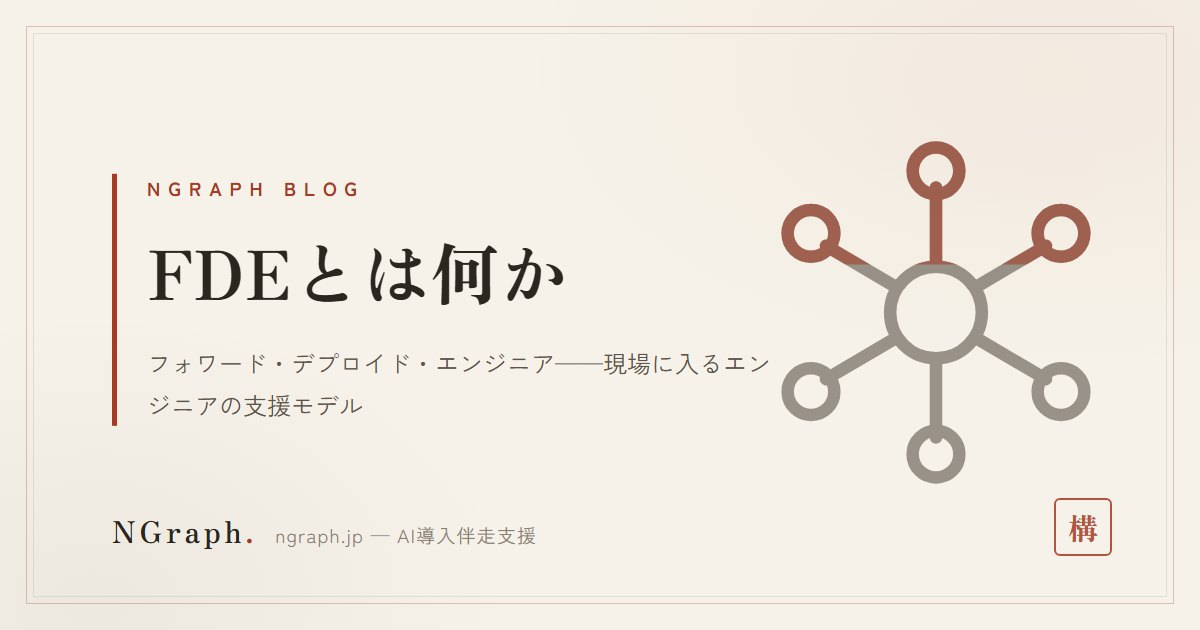
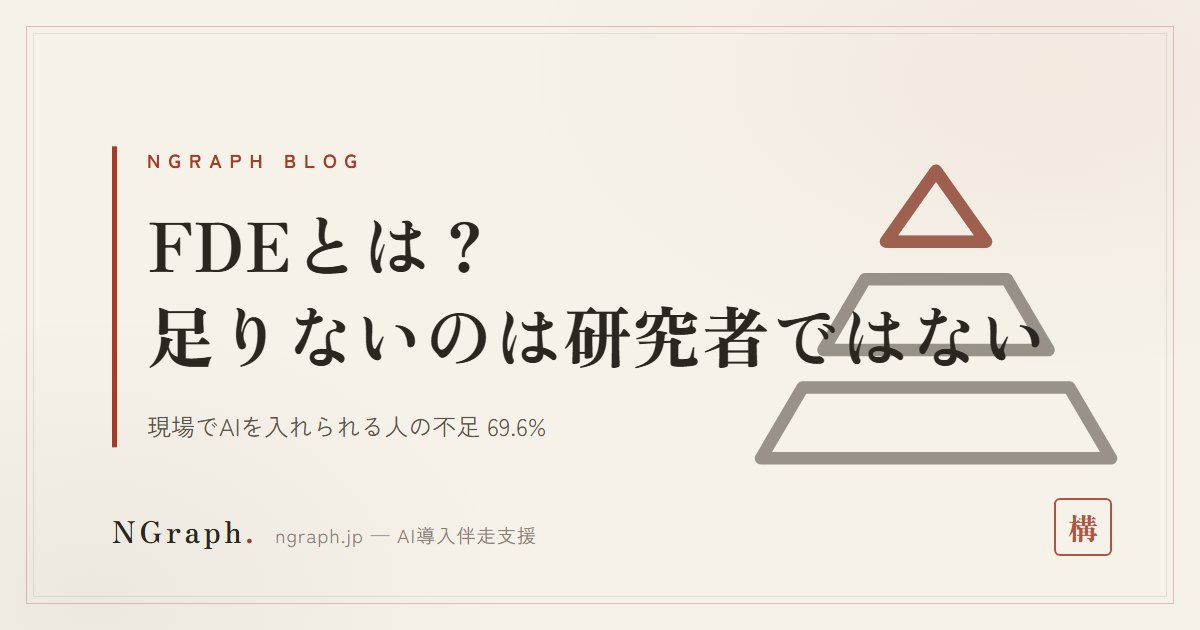
blog: what-is-fde を夕B型に増強改稿(1,800字→7,900字) + 101人以下→100人以下の全箇所修正
- what-is-fde.html: IPA「DX動向2026」+帝国データバンクの一次データで全面増強。
  H2を8本に拡張(FDE定義/人材不足の正体/3年推移/規模別導入率/調査間のズレ/
  現場での実務/NGパターン/FAQ+まとめ)。図解4点(fig_gen.py)・表4点・FAQ6問・
  一次体験ブロックを追加。datePublished維持、dateModifiedのみ2026-08-06へ。
  アイキャッチをeyecatch_gen.pyで再生成。
- 20260805-sakana-namazu.html: IPAの区分表記「101人以下」を正しい「100人以下」
  (n=583)に全7箇所修正。dateModified更新。
- blog/index.html: 上記2記事のカード見出し・説明文を更新。
- sitemap.xml: 両記事のlastmodを2026-08-06に更新。
- llms.txt: what-is-fdeの行を新タイトルに更新。

Changed region(s): [[0.0925, 0.2111, 0.925, 0.7841], [0.1233, 0.6333, 0.4625, 0.6937]]

diff --git a/blog/what-is-fde.html b/blog/what-is-fde.html
@@ -10,10 +10,10 @@
   gtag('js', new Date());
   gtag('config', 'G-L96HMXRK1D');
 </script>
-<title>FDE（フォワード・デプロイド・エンジニア）とは？ 米テック大手が「常駐エンジニア」に投資する理由 | NGraphブログ</title>
-<meta name="description" content="OpenAIのFrontier、Microsoft・AWSのFDE部門新設——AI導入支援の主流が「現場常駐型」に移りつつある背景と、FDEの仕事内容をわかりやすく解説します。">
-<meta property="og:title" content="FDE（フォワード・デプロイド・エンジニア）とは？ 米テック大手が「常駐エンジニア」に投資する理由 | NGraphブログ">
-<meta property="og:description" content="OpenAIのFrontier、Microsoft・AWSのFDE部門新設——AI導入支援の主流が「現場常駐型」に移りつつある背景と、FDEの仕事内容をわかりやすく解説します。">
+<title>FDE（フォワード・デプロイド・エンジニア）とは？ 企業が本当に足りないのは「現場でAIを入れられる人」——不足69.6% | NGraphブログ</title>
+<meta name="description" content="FDE＝エンジニアが顧客企業の現場に入ってAIを業務に組み込む支援モデル。IPA「DX動向2026」では「現場の知見と基礎的AI知識を持ち、自社へのAI導入を推進できる従業員」が不足69.6%、一方でAI研究者は56.7%が「自社には必要ない」。足りない人材の正体と、中小企業がFDE型支援を使う手順を解説します。">
+<meta property="og:title" content="FDE（フォワード・デプロイド・エンジニア）とは？ 企業が本当に足りないのは「現場でAIを入れられる人」——不足69.6% | NGraphブログ">
+<meta property="og:description" content="FDE＝エンジニアが顧客企業の現場に入ってAIを業務に組み込む支援モデル。IPA「DX動向2026」では「現場の知見と基礎的AI知識を持ち、自社へのAI導入を推進できる従業員」が不足69.6%、一方でAI研究者は56.7%が「自社には必要ない」。足りない人材の正体と、中小企業がFDE型支援を使う手順を解説します。">
 <meta property="og:type" content="article">
 <meta property="og:url" content="https://ngraph.jp/blog/what-is-fde.html">
 <meta property="og:site_name" content="株式会社NGraph">
@@ -21,22 +21,23 @@
 <meta property="og:image" content="https://ngraph.jp/assets/blog/what-is-fde.jpg">
 <meta property="og:image:width" content="1200">
 <meta property="og:image:height" content="630">
+<meta name="twitter:card" content="summary_large_image">
 <link rel="canonical" href="https://ngraph.jp/blog/what-is-fde.html">
 <link rel="icon" href="/assets/favicon.svg" type="image/svg+xml">
 <link rel="preconnect" href="https://fonts.googleapis.com">
 <link rel="preconnect" href="https://fonts.gstatic.com" crossorigin>
 <link href="https://fonts.googleapis.com/css2?family=Zen+Old+Mincho:wght@400;600;700;900&family=Zen+Kaku+Gothic+New:wght@400;500;700&family=Noto+Sans+JP:wght@400;500;700&display=swap" rel="stylesheet">
 <link rel="stylesheet" href="/css/ngraph-zen.css?v=5">
-<style>.a-faq details{border:1px solid var(--border);border-radius:3px;background:var(--bg-card);margin-bottom:10px;padding:0 18px}.a-faq summary{font-family:var(--serif);font-size:.92rem;font-weight:700;line-height:1.7;padding:14px 0;cursor:pointer;list-style:none;position:relative;padding-right:26px}.a-faq summary::after{content:"\uFF0B";position:absolute;right:2px;top:50%;transform:translateY(-50%);color:var(--accent)}.a-faq details[open] summary::after{content:"\u2212"}.a-faq details p{font-size:.86rem;color:var(--text-2);line-height:2;padding:0 0 16px}.a-note{background:rgba(166,58,36,.05);border-left:2.5px solid var(--accent);padding:16px 20px;border-radius:0 3px 3px 0;font-size:.88rem;color:var(--text-2);line-height:2.1;margin:26px 0}.a-note strong{color:var(--text)}.a-table-wrap{overflow-x:auto;margin:18px 0}.a-table{width:100%;border-collapse:collapse;font-size:.84rem}.a-table th,.a-table td{border:1px solid var(--border);padding:9px 12px;text-align:left;line-height:1.8;color:var(--text-2)}.a-table th{background:rgba(166,58,36,.05);color:var(--text);font-weight:700;white-space:nowrap}.a-eyecatch{width:100%;height:auto;display:block;border:1px solid var(--border);border-radius:4px;margin:24px 0 8px}</style>
+<style>.a-faq details{border:1px solid var(--border);border-radius:3px;background:var(--bg-card);margin-bottom:10px;padding:0 18px}.a-faq summary{font-family:var(--serif);font-size:.92rem;font-weight:700;line-height:1.7;padding:14px 0;cursor:pointer;list-style:none;position:relative;padding-right:26px}.a-faq summary::after{content:"＋";position:absolute;right:2px;top:50%;transform:translateY(-50%);color:var(--accent)}.a-faq details[open] summary::after{content:"−"}.a-faq details p{font-size:.86rem;color:var(--text-2);line-height:2;padding:0 0 16px}.a-note{background:rgba(166,58,36,.05);border-left:2.5px solid var(--accent);padding:16px 20px;border-radius:0 3px 3px 0;font-size:.88rem;color:var(--text-2);line-height:2.1;margin:26px 0}.a-note strong{color:var(--text)}.a-table-wrap{overflow-x:auto;margin:18px 0}.a-table{width:100%;border-collapse:collapse;font-size:.84rem}.a-table th,.a-table td{border:1px solid var(--border);padding:9px 12px;text-align:left;line-height:1.8;color:var(--text-2)}.a-table th{background:rgba(166,58,36,.05);color:var(--text);font-weight:700;white-space:nowrap}.a-eyecatch{width:100%;height:auto;display:block;border:1px solid var(--border);border-radius:4px;margin:24px 0 8px}.a-fig-wrap{background:var(--bg-card);border:1px solid var(--border);border-radius:4px;padding:22px 18px 14px;margin:26px 0;overflow-x:auto}.a-fig-title{font-family:var(--serif);font-size:.95rem;font-weight:700;text-align:center;margin-bottom:10px;color:var(--text)}.a-fig-cap{font-size:.8rem;color:var(--text-3);line-height:1.95;margin-top:10px}.a-src{border-top:1px solid var(--border);margin-top:34px;padding-top:16px;font-size:.78rem;color:var(--text-3);line-height:2}.a-src a{color:var(--text-3);text-decoration:underline}.a-toc{background:var(--bg-card);border:1px solid var(--border);border-radius:3px;padding:16px 20px;margin:20px 0;font-size:.86rem;color:var(--text-2);line-height:2}.a-toc strong{color:var(--text)}</style>
 <script type="application/ld+json">
 {
   "@context": "https://schema.org",
   "@type": "Article",
-  "headline": "FDE（フォワード・デプロイド・エンジニア）とは？ 米テック大手が「常駐エンジニア」に投資する理由",
+  "headline": "FDE（フォワード・デプロイド・エンジニア）とは？ 企業が本当に足りないのは「現場でAIを入れられる人」——不足69.6%",
   "image": "https://ngraph.jp/assets/blog/what-is-fde.jpg",
-  "description": "OpenAIのFrontier、Microsoft・AWSのFDE部門新設——AI導入支援の主流が「現場常駐型」に移りつつある背景と、FDEの仕事内容をわかりやすく解説します。",
+  "description": "FDE＝エンジニアが顧客企業の現場に入ってAIを業務に組み込む支援モデル。IPA「DX動向2026」では「現場の知見と基礎的AI知識を持ち、自社へのAI導入を推進できる従業員」が不足69.6%、一方でAI研究者は56.7%が「自社には必要ない」。足りない人材の正体と、中小企業がFDE型支援を使う手順を解説します。",
   "datePublished": "2026-07-14",
-  "dateModified": "2026-07-17",
+  "dateModified": "2026-08-06",
   "inLanguage": "ja",
   "mainEntityOfPage": "https://ngraph.jp/blog/what-is-fde.html",
   "author": { "@type": "Person", "name": "髙橋 真吾", "jobTitle": "代表取締役", "url": "https://ngraph.jp/company#team", "worksFor": { "@type": "Organization", "name": "株式会社NGraph", "url": "https://ngraph.jp/" } },
@@ -50,10 +51,10 @@
  "mainEntity": [
   {
    "@type": "Question",
-   "name": "FDEと、ふつうのシステム開発会社は何が違いますか？",
+   "name": "FDE（フォワード・デプロイド・エンジニア）とは何ですか？",
    "acceptedAnswer": {
     "@type": "Answer",
-    "text": "要件定義書を受け取って作るのではなく、エンジニアが現場に入って業務ごと設計する点です。ゴールも「完成品の納品」ではなく「現場が自分で使いこなせる状態」に置きます。"
+    "text": "エンジニアが顧客企業の現場に入り込み、その場で業務にAIを組み込んでいく支援モデルです。要件定義書を受け取って完成品を納品するのではなく、現場が自分で使いこなせる状態になるまでを範囲とします。"
    }
   },
   {
@@ -61,7 +62,23 @@
    "name": "FDEという言葉はどこから来たのですか？",
    "acceptedAnswer": {
     "@type": "Answer",
-    "text": "米Palantir社が広めた職種名で、Forward Deployed Engineer（前線配置エンジニア）の略です。顧客企業の中に入って働くエンジニアを指し、現在はOpenAIなど米テック各社が同型の支援を強化しています。"
+    "text": "米Palantir社が広めた職種名です。OpenAIも2026年7月に発表した企業向けAIエージェント基盤「OpenAI Presence」の導入を担う役割としてFDEを位置づけており、大手にも広がっています。"
+   }
+  },
+  {
+   "@type": "Question",
+   "name": "企業が本当に足りていないのはどんな人材ですか？",
+   "acceptedAnswer": {
+    "@type": "Answer",
+    "text": "IPA「DX動向2026」（2025年度調査）では、「現場の知見と基礎的AI知識を持ち、自社へのAI導入を推進できる従業員」の不足が69.6%、「データマネジメントの知見があり社内で企画・推進できる人材」の不足が71.9%と高い一方、AI研究者の不足は39.1%にとどまります。研究者は「自社には必要ない」が56.7%と高いためで、中小企業に必要なのは論文を書ける人ではなく現場に入れる人だと分かります。"
+   }
+  },
+  {
+   "@type": "Question",
+   "name": "中小企業のAI導入率はどれくらいですか？",
+   "acceptedAnswer": {
+    "@type": "Answer",
+    "text": "IPAの調査では従業員100人以下の企業の「導入している」は16.6%、1,001人以上の企業は78.3%です。一方、帝国データバンクの調査では中小企業の「活用している」は32.4%と報告されています。母集団・設問・調査時期が異なるため、この2つの数字を引き算して比較することはできません。"
    }
   },
   {
@@ -69,7 +86,15 @@
    "name": "中小企業でもFDE型の支援を頼めますか？",
    "acceptedAnswer": {
     "@type": "Answer",
-    "text": "はい。むしろIT担当がいない中小企業にこそ効果が大きい形です。当社は中小企業の規模と予算に合わせて、オンライン中心・範囲を絞った形から提供しています。"
+    "text": "はい。むしろIT担当がいない中小企業にこそ効果が大きい形です。当社は福井の飲食グループ本部（12店舗）など、中小企業の規模と予算に合わせてFDE型の支援を提供しています。"
+   }
+  },
+  {
+   "@type": "Question",
+   "name": "FDE型と研修型・コンサル型・受託開発型は何が違いますか？",
+   "acceptedAnswer": {
+    "@type": "Answer",
+    "text": "研修型は知識を広げること、コンサル型は方針を決めること、受託開発型は要件通りのシステムを完成させることがゴールです。FDE型だけが、エンジニアが現場に入って一緒に手を動かし、「現場が自分で使いこなせる状態」まで責任範囲に含めます。"
    }
   }
  ]
@@ -91,43 +116,124 @@
 </header>
 
 <article class="article-wrap">
-  <div class="a-label">Blog</div>
-  <h1>FDE（フォワード・デプロイド・エンジニア）とは？ 米テック大手が「常駐エンジニア」に投資する理由</h1>
-  <span class="a-date">2026.07.14 ｜ 株式会社NGraph</span>
+  <div class="a-label">Evening Deep Dive</div>
+  <h1>FDE（フォワード・デプロイド・エンジニア）とは？ 企業が本当に足りないのは「現場でAIを入れられる人」——不足69.6%</h1>
+  <span class="a-date">2026.07.14 公開（2026.08.06 更新）｜ 株式会社NGraph</span>
   <img class="a-eyecatch" src="/assets/blog/what-is-fde.jpg" alt="">
 
-<p>FDE（Forward Deployed Engineer＝フォワード・デプロイド・エンジニア）は、直訳すると「最前線に配置された技術者」。<strong>エンジニアが顧客企業の中に数ヶ月単位で入り込み、各現場の業務に合わせてその場でAIを組み込んでいく</strong>支援モデルです。</p>
-<h2>なぜ今、FDEなのか</h2>
-<p>AIツールの性能はすでに十分高くなりました。ところが多くの企業では「契約したのに現場が使いこなせない」という停滞が起きています。原因はツールではなく、ツールと現場のあいだ——「自社のこの業務にどう当てはめるか」という最後の一段が埋まっていないことにあります。</p>
-<p>この一段は、マニュアルや研修では埋まりません。現場ごとに業務が違い、必要なプロンプトもシステム連携も違うからです。埋められるのは、現場に入って手を動かす人だけ。それがFDEという職種が生まれた理由です。</p>
-<h2>米テック大手の動き</h2>
-<ul>
-<li><strong>OpenAI「Frontier」</strong>：自社エンジニアを顧客企業に常駐させ、「AI同僚（AI coworkers）」と呼ばれる自律型エージェントを企業システムへ直接組み込む支援を展開しています。</li>
-<li><strong>Microsoft / AWS</strong>：両社とも巨額の投資を行い、数千人規模のFDE新部門を設立して顧客企業への常駐支援を開始したと報じられています。</li>
-</ul>
-<p>「ツールを渡して終わり」から「現場で動くまでつくる」へ。世界のAI導入支援は、確実に現場常駐型へ移っています。</p>
-<h2>FDEは何をするのか</h2>
-<p>FDEの仕事は大きく4つです。</p>
+<p>FDE（Forward Deployed Engineer＝フォワード・デプロイド・エンジニア）は、直訳すると「前線配置エンジニア」。<strong>エンジニアが顧客企業の現場に入り込み、その場でAIを業務に組み込んでいく</strong>支援モデルです。IPA（情報処理推進機構）「DX動向2026」データ集（2026年7月公表・2025年度調査・有効回答1,799社）によると、企業に本当に足りていないのは「AIに詳しい研究者」ではなく、<strong>「現場の知見と基礎的AI知識を持ち、自社へのAI導入を推進できる従業員」——不足69.6%</strong>でした。この記事ではFDEの定義と、IPA・帝国データバンクの調査データから見える「足りない人材」の正体、中小企業がFDE型支援を使う際の考え方を解説します。</p>
+<div class="a-toc"><strong>この記事でわかること</strong><br>
+・FDEとは何か。Palantir発の職種名がOpenAIの新サービスにも広がっている背景<br>
+・IPAの人材充足調査で「不足している」が最も高いのは、AI研究者ではなく現場推進人材・データマネジメント人材だという事実<br>
+・同じ「中小企業のAI導入率」でも、IPA（16.6%）と帝国データバンク（32.4%）で数字が倍近く違う理由</div>
+
+<h2>FDE（フォワード・デプロイド・エンジニア）とは何か</h2>
+<p>FDE（Forward Deployed Engineer）という職種名は、米Palantir社が広めたものです（公式の一次情報が確認できないため、創業年や人数などの詳細はここでは扱いません）。要件定義書を受け取って完成品を納品するのではなく、<strong>エンジニアが顧客企業の中に入り込み、現場の業務ごとにAIの使い方をその場で設計していく</strong>のが特徴です。</p>
+<p>この型はAIの提供側にも広がっています。OpenAIは2026年7月22日、企業向けの音声・チャットAIエージェントを構築・展開・運用・継続改善するためのマネージド基盤「OpenAI Presence」を発表しました。同社によると、<strong>その導入を担うのがForward Deployed Engineer（FDE）</strong>です。「AIツールを配って終わり」ではなく「現場で動くところまで一緒に作る」役割に、AIを作る側自身が名前をつけ始めているということです。</p>
+<p>FDE型は唯一の支援方法ではありません。よく比較される4つの型の違いを表1に整理しました。</p>
+<div class="a-table-wrap"><table class="a-table">
+<tr><th>型</th><th>誰が手を動かすか</th><th>成果物</th><th>終わり方</th><th>向く場面</th></tr>
+<tr><td>FDE型</td><td>エンジニアが現場で担当者と一緒に</td><td>現場で動くAIの仕組み・運用手順</td><td>現場が自分で回せる状態になったら完了</td><td>業務ごとにやり方が違う・変化が多い現場</td></tr>
+<tr><td>研修型</td><td>社員が講義・演習で学ぶ</td><td>知識・スキル</td><td>研修の実施で一区切り（現場適用は各自）</td><td>全社員に共通の基礎知識を広げたい場面</td></tr>
+<tr><td>コンサル型</td><td>コンサルタントが分析・提言</td><td>戦略・提案書</td><td>提言書の納品で完了</td><td>方針や体制そのものを決めたい場面</td></tr>
+<tr><td>受託開発型</td><td>開発会社がシステムを構築</td><td>完成したシステム・ソフトウェア</td><td>検収・納品で完了</td><td>要件が最初から明確に固まっている場面</td></tr>
+</table></div>
+<p>4つの型は排他的ではなく、組み合わせて使われることも多くあります。ただしFDE型だけが持つ特徴は、<strong>「現場で使われる状態」まで責任範囲に含める</strong>点です。研修型・コンサル型・受託開発型との違いをさらに詳しく整理した記事は<a href="/blog/fde-vs-training.html">こちら</a>にあります。次の章では、なぜこの型が必要とされているのか、IPAの調査データから見ていきます。</p>
+
+<h2>足りないのはAI研究者ではなかった</h2>
+<p>IPA「DX動向2026」データ集のp.93「AI関連人材の充足状況」（2025年度調査）は、企業に8種類のAI関連人材について「十分にいる／まあまあいる／不足している／自社には必要ない」を尋ねています。「不足している」の回答率が最も高かったのは、意外にも研究職ではありませんでした。</p>
+<div class="a-fig-wrap">
+<p class="a-fig-title">足りないのはAI研究者ではなく「現場でAIを入れられる人」</p>
+<svg viewBox="0 0 1200 510" width="100%" style="min-width:640px" role="img" aria-label="足りないのはAI研究者ではなく「現場でAIを入れられる人」"><text x="421" y="75" font-family="'Zen Kaku Gothic New',sans-serif" font-size="21" fill="#2b2620" font-weight="700" text-anchor="end">データマネジメント人材</text><rect x="439" y="50" width="561" height="34" rx="2" fill="#a63a24"/><text x="1012" y="76" font-family="'Zen Kaku Gothic New',sans-serif" font-size="24" fill="#a63a24" font-weight="900" text-anchor="start">71.9%</text><text x="421" y="127" font-family="'Zen Kaku Gothic New',sans-serif" font-size="21" fill="#2b2620" font-weight="700" text-anchor="end">現場でAI導入を推進できる従業員</text><rect x="439" y="102" width="543" height="34" rx="2" fill="#a63a24"/><text x="994" y="128" font-family="'Zen Kaku Gothic New',sans-serif" font-size="24" fill="#a63a24" font-weight="900" text-anchor="start">69.6%</text><text x="421" y="179" font-family="'Zen Kaku Gothic New',sans-serif" font-size="21" fill="#2b2620" font-weight="700" text-anchor="end">AIツールで分析し事業に活かせる従業員</text><rect x="439" y="154" width="518" height="34" rx="2" fill="#cfc5b4"/><text x="969" y="180" font-family="'Zen Kaku Gothic New',sans-serif" font-size="24" fill="#8a8172" font-weight="900" text-anchor="start">66.5%</text><text x="421" y="231" font-family="'Zen Kaku Gothic New',sans-serif" font-size="21" fill="#2b2620" font-weight="700" text-anchor="end">AI事業企画</text><rect x="439" y="206" width="453" height="34" rx="2" fill="#cfc5b4"/><text x="904" y="232" font-family="'Zen Kaku Gothic New',sans-serif" font-size="24" fill="#8a8172" font-weight="900" text-anchor="start">58.1%</text><text x="421" y="283" font-family="'Zen Kaku Gothic New',sans-serif" font-size="21" fill="#2b2620" font-weight="700" text-anchor="end">AI開発者</text><rect x="439" y="258" width="389" height="34" rx="2" fill="#cfc5b4"/><text x="840" y="284" font-family="'Zen Kaku Gothic New',sans-serif" font-size="24" fill="#8a8172" font-weight="900" text-anchor="start">49.9%</text><text x="421" y="335" font-family="'Zen Kaku Gothic New',sans-serif" font-size="21" fill="#2b2620" font-weight="700" text-anchor="end">AI研究者</text><rect x="439" y="310" width="305" height="34" rx="2" fill="#cfc5b4"/><text x="756" y="336" font-family="'Zen Kaku Gothic New',sans-serif" font-size="24" fill="#8a8172" font-weight="900" text-anchor="start">39.1%</text><text x="421" y="387" font-family="'Zen Kaku Gothic New',sans-serif" font-size="21" fill="#2b2620" font-weight="700" text-anchor="end">AIに理解がある経営層</text><rect x="439" y="362" width="304" height="34" rx="2" fill="#cfc5b4"/><text x="755" y="388" font-family="'Zen Kaku Gothic New',sans-serif" font-size="24" fill="#8a8172" font-weight="900" text-anchor="start">39.0%</text><text x="600.0" y="452" font-family="'Zen Old Mincho',serif" font-size="24" fill="#2b2620" font-weight="900" text-anchor="middle">「不足している」の回答率。AI研究者だけ低いのは、56.7%が「自社には必要ない」と答えているため</text><text x="8" y="494" font-family="'Zen Kaku Gothic New',sans-serif" font-size="13" fill="#8a8172" font-weight="400" text-anchor="start">出所：IPA「DX動向2026」データ集（2026年7月・2025年度調査 n=1,781〜1,783）</text></svg>
+</div>
+<p>図の通り、最も不足感が強いのは<strong>データマネジメントの知見があり、社内で企画・推進できる人材（71.9%・n=1,782）</strong>、次いで<strong>現場の知見と基礎的AI知識を持ち、自社へのAI導入を推進できる従業員（69.6%・n=1,782）</strong>です。一方、<strong>先端的なAIアルゴリズムを開発したり学術論文を書いたりするAI研究者</strong>の「不足している」は39.1%（n=1,782）にとどまり、8種類中もっとも低い水準でした。</p>
+<p>数字だけを見ると「AI研究者は足りている」と早合点しそうになりますが、そうではありません。AI研究者について<strong>「自社には必要ない」と答えた企業は56.7%</strong>と、8種類の中で突出して高い数字です。不足していないのではなく、そもそも要らないと考えられている——だから「不足している」の回答率が下がっているのです。</p>
+<p>私たちが強調したいのはここです。中小企業がAI活用でつまずくのは、論文を書ける研究者がいないからではありません。<strong>自社の現場の業務を知った上で、基礎的なAI知識を持ち、実際に導入を推進できる人</strong>がいないから、そしてそういう人材を社内で育てる・採用する・外部から連れてくる方法が定まっていないからです。FDEという職種は、この「現場推進人材」を外部から連れてくる方法の一つだと整理できます。</p>
+<p style="font-size:.85rem;color:var(--text-3)">自社にこの人材がどれだけいるか気になる方は、<a href="/fde/" style="color:var(--accent);border-bottom:1px solid var(--accent)">無料のAI診断</a>で現在地を確認できます。</p>
+
+<h2>3年でどう動いたか</h2>
+<p>「現場の知見と基礎的AI知識を持ち、自社へのAI導入を推進できる従業員」の不足感は、この3年でどう変化したのでしょうか。IPAの同じ設問の経年変化を追うと、<strong>2023年度84.4%（n=863）→2024年度71.6%（n=1,515）→2025年度69.6%（n=1,782）</strong>と下がってきています。</p>
+<div class="a-fig-wrap">
+<p class="a-fig-title">「現場でAI導入を推進できる従業員が不足」は3年で84.4→69.6</p>
+<svg viewBox="0 0 1200 630" width="100%" style="min-width:640px" role="img" aria-label="「現場でAI導入を推進できる従業員が不足」は3年で84.4→69.6"><line x1="186" y1="456" x2="1034" y2="456" stroke="#2b2620" stroke-width="1.6"/><line x1="186" y1="50" x2="186" y2="456" stroke="#2b2620" stroke-width="1.6"/><polyline points="220.0,120.3 610.0,171.3 1000.0,179.2" fill="none" stroke="#a63a24" stroke-width="4" stroke-linejoin="round" stroke-linecap="round"/><circle cx="220.0" cy="120.3" r="8" fill="#a63a24"/><text x="220.0" y="488" font-family="'Zen Kaku Gothic New',sans-serif" font-size="20" fill="#2b2620" font-weight="700" text-anchor="middle">2023年度</text><circle cx="610.0" cy="171.3" r="8" fill="#a63a24"/><text x="610.0" y="488" font-family="'Zen Kaku Gothic New',sans-serif" font-size="20" fill="#2b2620" font-weight="700" text-anchor="middle">2024年度</text><circle cx="1000.0" cy="179.2" r="8" fill="#a63a24"/><text x="1000.0" y="488" font-family="'Zen Kaku Gothic New',sans-serif" font-size="20" fill="#2b2620" font-weight="700" text-anchor="middle">2025年度</text><text x="600.0" y="572" font-family="'Zen Old Mincho',serif" font-size="24" fill="#2b2620" font-weight="900" text-anchor="middle">改善はしているが、いまも約7割の企業が不足と答えている</text><text x="8" y="614" font-family="'Zen Kaku Gothic New',sans-serif" font-size="13" fill="#8a8172" font-weight="400" text-anchor="start">出所：IPA「DX動向2026」データ集（2026年7月）</text></svg>
+</div>
+<p>2023年度から2024年度にかけて大きく下がった後、2024年度から2025年度にかけての下がり方は緩やかになっています。研修サービスやAI人材採用の広がりが背景にあると考えられます（研修そのものが抱える定着の課題は<a href="/blog/20260804-ai-kenshu-teichaku.html">別記事「AI研修が定着しない理由」</a>で解説しました）。ただし、改善のペースそのものは鈍ってきています。</p>
+<p>この職種の不足が動きにくい理由を、私たちはこう見ています。座学の研修は「AIの知識」を広げられますが、それだけでは「自社の業務にどう当てはめるか」までは埋まりません。IPAが問うているのは知識の有無ではなく<strong>「自社へのAI導入を推進できる」</strong>かどうかという、実践力を含んだ充足度です。知識を広げる打ち手（研修・採用広告）は増えても、実践の壁を埋める打ち手は増えにくい——だから改善のペースが鈍る、というのが私たちの見立てです。正本を作っても現場で読まれなければ同じことが起きる、という構造は<a href="/blog/20260806-seihon-yomarenai.html">別記事</a>でも書きました。</p>
+
+<h2>AIが入っていないのはどの規模か</h2>
+<p>人材の話から、企業規模別の導入状況に目を移します。IPA「DX動向2026」データ集のp.35「AIの導入状況（従業員規模別）」（2025年度調査）では、「導入している」と答えた企業の割合が、規模によって大きく異なります。</p>
+<div class="a-fig-wrap">
+<p class="a-fig-title">AIが入っていないのは、100人以下の会社</p>
+<svg viewBox="0 0 1200 354" width="100%" style="min-width:640px" role="img" aria-label="AIが入っていないのは、100人以下の会社"><text x="274" y="75" font-family="'Zen Kaku Gothic New',sans-serif" font-size="21" fill="#2b2620" font-weight="700" text-anchor="end">1001人以上</text><rect x="292" y="50" width="708" height="34" rx="2" fill="#a63a24"/><text x="1012" y="76" font-family="'Zen Kaku Gothic New',sans-serif" font-size="24" fill="#a63a24" font-weight="900" text-anchor="start">78.3%</text><text x="274" y="127" font-family="'Zen Kaku Gothic New',sans-serif" font-size="21" fill="#2b2620" font-weight="700" text-anchor="end">301〜1000人以下</text><rect x="292" y="102" width="475" height="34" rx="2" fill="#cfc5b4"/><text x="779" y="128" font-family="'Zen Kaku Gothic New',sans-serif" font-size="24" fill="#8a8172" font-weight="900" text-anchor="start">52.6%</text><text x="274" y="179" font-family="'Zen Kaku Gothic New',sans-serif" font-size="21" fill="#2b2620" font-weight="700" text-anchor="end">101〜300人以下</text><rect x="292" y="154" width="329" height="34" rx="2" fill="#cfc5b4"/><text x="633" y="180" font-family="'Zen Kaku Gothic New',sans-serif" font-size="24" fill="#8a8172" font-weight="900" text-anchor="start">36.4%</text><text x="274" y="231" font-family="'Zen Kaku Gothic New',sans-serif" font-size="21" fill="#2b2620" font-weight="700" text-anchor="end">100人以下</text><rect x="292" y="206" width="150" height="34" rx="2" fill="#2b2620"/><text x="454" y="232" font-family="'Zen Kaku Gothic New',sans-serif" font-size="24" fill="#2b2620" font-weight="900" text-anchor="start">16.6%</text><text x="600.0" y="296" font-family="'Zen Old Mincho',serif" font-size="24" fill="#2b2620" font-weight="900" text-anchor="middle">「導入している」の回答率。100人以下では「今後も取組む予定はない」も28.5%（1,001人以上は0.5%）</text><text x="8" y="338" font-family="'Zen Kaku Gothic New',sans-serif" font-size="13" fill="#8a8172" font-weight="400" text-anchor="start">出所：IPA「DX動向2026」データ集（2026年7月・2025年度調査）</text></svg>
+</div>
+<p><strong>従業員1,001人以上の企業は78.3%（n=378）</strong>が「導入している」と回答した一方、<strong>100人以下の企業では16.6%（n=583）</strong>にとどまります。101〜300人以下は36.4%（n=448）、301〜1,000人以下は52.6%（n=384）と、規模が上がるにつれて段階的に上がっていく構図です。IPA自身も「企業規模が大きくなるほど導入が進んでいる」と記述しています。</p>
+<p>さらに見ておきたいのが、最も後ろ向きな選択肢「今後も取組む予定はない」の割合です。100人以下の企業では<strong>28.5%</strong>がこれを選んでいるのに対し、1,001人以上の企業では<strong>0.5%</strong>だけです。約3割の小規模企業が「検討すらしない」と答えている一方、大企業ではその選択肢はほぼ存在しません。導入率の差だけでなく、検討の入り口にすら立っていない企業の割合にも大きな差があるということです。</p>
+
+<h2>同じ「中小企業のAI」でも、調査によって倍近く違う理由</h2>
+<p>ここまでIPAの数字（100人以下16.6%）を見てきましたが、同じ2026年に公表された帝国データバンク「生成AIに関する企業の動向調査」（2026年3月17〜31日実施・有効回答1万312社・回答率44.2%）では、<strong>中小企業の「活用している」は32.4%</strong>と報告されています。</p>
+<div class="a-fig-wrap">
+<p class="a-fig-title">同じ「中小企業のAI」でも、調査によって倍近く違う</p>
+<svg viewBox="0 0 1200 460" width="100%" style="min-width:640px" role="img" aria-label="同じ「中小企業のAI」でも、調査によって倍近く違う"><rect x="220" y="99" width="220" height="210" rx="3" fill="#a63a24"/><text x="330" y="81" font-family="'Zen Kaku Gothic New',sans-serif" font-size="46" fill="#a63a24" font-weight="900" text-anchor="middle">32.4%</text><text x="330" y="343" font-family="'Zen Kaku Gothic New',sans-serif" font-size="21" fill="#2b2620" font-weight="700" text-anchor="middle">帝国データバンク「中小企業」</text><rect x="700" y="202" width="220" height="107" rx="3" fill="#cfc5b4"/><text x="810" y="184" font-family="'Zen Kaku Gothic New',sans-serif" font-size="46" fill="#5c544a" font-weight="900" text-anchor="middle">16.6%</text><text x="810" y="343" font-family="'Zen Kaku Gothic New',sans-serif" font-size="21" fill="#2b2620" font-weight="700" text-anchor="middle">IPA「100人以下」</text><line x1="570" y1="50" x2="570" y2="358" stroke="#8a8172" stroke-width="1" stroke-dasharray="4 4"/><text x="600.0" y="402" font-family="'Zen Old Mincho',serif" font-size="24" fill="#2b2620" font-weight="900" text-anchor="middle">母集団も設問も違うため、この2つを引き算してはいけない</text><text x="8" y="444" font-family="'Zen Kaku Gothic New',sans-serif" font-size="13" fill="#8a8172" font-weight="400" text-anchor="start">出所：帝国データバンク（2026年3月・1万312社）／IPA「DX動向2026」（2026年4〜6月・1,799社）</text></svg>
+</div>
+<p>どちらも「中小企業のAI」を調べた調査なのに、数字はほぼ倍です。<strong>この2つを「約16ポイントの差」のように引き算して読んではいけません。</strong>母集団も設問も違うからです。私たちが整理した違いは次の5点です。</p>
+<div class="a-table-wrap"><table class="a-table">
+<tr><th>比較軸</th><th>IPA「DX動向2026」</th><th>帝国データバンク</th></tr>
+<tr><td>問いの立て方</td><td>「AIを導入していますか」（AI全般・6段階の選択肢）</td><td>「生成AIを活用していますか」（生成AIに限定・5段階）</td></tr>
+<tr><td>企業規模の区分</td><td>100人以下／101〜300人以下／301〜1,000人以下／1,001人以上</td><td>大企業／中小企業／小規模企業（同社独自の定義）</td></tr>
+<tr><td>回答者</td><td>経営層・情報システム部門・DX推進部門等</td><td>企業単位での回答</td></tr>
+<tr><td>母集団・有効回答数</td><td>有効回答1,799社</td><td>有効回答1万312社（回答率44.2%）</td></tr>
+<tr><td>調査時期</td><td>2026年4月17日〜6月12日</td><td>2026年3月17〜31日</td></tr>
+</table></div>
+<p>5つの違いのうち、数字の大きさに最も効いていると考えられるのは問いの立て方と企業規模の区分です。IPAの設問は「AI全般」を「導入している」かを尋ねる、比較的狭い基準です。帝国データバンクは対象を生成AIに絞る一方、「活用」という言葉は「導入」より緩い行為も含みやすくなります。企業規模の区分も、IPAの「100人以下」と帝国データバンクの「中小企業」（同社の定義）は一致しません。</p>
+<p>実務上の結論はシンプルです。<strong>「自社が平均のどこにいるか」を測るときは、どちらの数字と比べているかを先に確認してください。</strong>100人以下の会社がIPAの16.6%とだけ比べれば「自社は遅れていない」と感じるかもしれませんが、帝国データバンクの32.4%と比べれば逆の感想になります。どちらも正しい数字であり、比べる相手を選ぶ作業が先に要ります。</p>
+
+<h2>FDEは現場で何をするのか</h2>
+<p>FDEの仕事は、大きく4つに分解できます。</p>
+<div class="a-table-wrap"><table class="a-table">
+<tr><th>工程</th><th>やること</th></tr>
+<tr><td>1. 業務の分解</td><td>現場の仕事を実際に見て、AIに任せられる箇所と人が担うべき箇所を切り分ける。マニュアルの手順ではなく、実際にその場で起きている作業を観察するところから始める</td></tr>
+<tr><td>2. その場での構築</td><td>現場の実データを使い、プロンプトやAIエージェントをその場で組んで動かし、うまくいかない部分をその場で直す</td></tr>
+<tr><td>3. システム連携</td><td>既存の受発注システムや会計ソフト、チャットツールなどとAIを接続する。中小企業の現場は道具がバラバラなことが多く、この接続作業自体に時間がかかる</td></tr>
+<tr><td>4. 定着</td><td>現場のメンバーが自分で回せる状態まで伴走し、手順とAIへの指示文を残して引き継ぐ</td></tr>
+</table></div>
+<div class="a-note"><strong>私たち自身のFDE：</strong>私たちはいま、福井の飲食グループ本部（12店舗）に入り、この4つを実践しています。入って最初のヒアリングで見つかったのは、原価計算のExcelが約2年止まっていたこと、新人向けのガイダンスに年間約100人がかかっていたことでした。どちらも会議室で作った提案書には出てこない、現場に入って初めて見える課題です。会議室の提案書ではなく、担当者の隣で実データを見ながら進める——それがFDE型と呼ばれる支援の実際の姿だと、私たちは考えています。</div>
+
+<h2>よくある失敗・NGパターン</h2>
+<p>帝国データバンクの調査では、生成AI活用が進まない理由として、情報の正確性（50.4%）、専門人材・ノウハウ不足（41.3%）、活用すべき業務範囲が分からない（40.0%）、情報漏洩のリスク（33.5%）、トラブル時の責任ルール整備（25.5%）が挙がっています。これらの課題は、現場でよく見る失敗パターンと重なります。</p>
 <ol>
-<li><strong>業務の分解</strong>：現場の仕事を実際に見て、AIに任せられる箇所と人が担うべき箇所を切り分ける</li>
-<li><strong>その場での構築</strong>：現場の実データでプロンプトやAIエージェントを組み、目の前で動かして直す</li>
-<li><strong>システム連携</strong>：既存の業務システムやExcel、チャットツールとAIを接続する</li>
-<li><strong>定着</strong>：現場メンバーが自分で回せる状態まで伴走し、引き継いで完了する</li>
+<li><strong>全社一斉に入れて誰も使わない</strong>——専門人材・ノウハウ不足（41.3%）が象徴する通り、使い方を教える人がいないまま全社に配布すると、一部の人しか触らずに終わります。1部署・1業務から始め、使える形を作ってから広げる方が定着します。</li>
+<li><strong>ツールの選定から始める</strong>——「どの業務に、どこまで使うか」（40.0%が課題視）を決める前にツールを比較し始めると、比較自体が目的化します。業務を先に決め、ツールは後から選ぶ順番が逆転しないようにします。</li>
+<li><strong>担当者に兼務で丸投げする</strong>——専門人材・ノウハウ不足はツールの問題ではなく人の問題です。既存業務と兼務のまま「AI担当」を任命しても、時間が確保できず動きません。</li>
+<li><strong>PoC（試験導入）で終わって現場に残らない</strong>——試しに使ってみるところまでは進んでも、情報の正確性への不安（50.4%）やトラブル時の責任ルール整備の遅れ（25.5%）を理由に、本番運用への切り替えが止まることがあります。「誰が最終確認するか」「間違えたときの対応」を先に決めておくと、この段階で止まりにくくなります。</li>
+<li><strong>情報漏洩対策を後回しにする</strong>——情報漏洩のリスク（33.5%）は、使い始めてから対策すると手戻りが大きくなります。何を入力してよいか・してはいけないかのルールは、使い始める前に決めておく必要があります。</li>
 </ol>
-<h2>日本の中小企業にこそ必要な理由</h2>
-<p>大企業には情報システム部門がありますが、それでも全部署への展開は難航しています。まして専任のIT担当がいない中小企業では、「現場に入って一緒につくる人」がいなければAI活用は号令だけで終わりがちです。NGraphは、このFDE型の支援を中堅・中小企業の規模と予算に合わせて提供しています。</p>
+<p style="font-size:.85rem;color:var(--text-3)">こうしたNGパターンを避けたい方は、<a href="/fde/" style="color:var(--accent);border-bottom:1px solid var(--accent)">無料相談・無料AI診断</a>からご相談ください。導入にかかる費用の実額は<a href="/blog/ai-cost.html">別記事</a>でも解説しています。</p>
 
+<h2>よくある質問</h2>
+<div class="a-faq">
+<details><summary>FDE（フォワード・デプロイド・エンジニア）とは何ですか？</summary><p>エンジニアが顧客企業の現場に入り込み、その場で業務にAIを組み込んでいく支援モデルです。要件定義書を受け取って完成品を納品するのではなく、現場が自分で使いこなせる状態になるまでを範囲とします。</p></details>
+<details><summary>FDEという言葉はどこから来たのですか？</summary><p>米Palantir社が広めた職種名です。OpenAIも2026年7月に発表した企業向けAIエージェント基盤「OpenAI Presence」の導入を担う役割としてFDEを位置づけており、大手にも広がっています。</p></details>
+<details><summary>企業が本当に足りていないのはどんな人材ですか？</summary><p>IPA「DX動向2026」（2025年度調査）では、「現場の知見と基礎的AI知識を持ち、自社へのAI導入を推進できる従業員」の不足が69.6%、「データマネジメントの知見があり社内で企画・推進できる人材」の不足が71.9%と高い一方、AI研究者の不足は39.1%にとどまります。研究者は「自社には必要ない」が56.7%と高いためで、中小企業に必要なのは論文を書ける人ではなく現場に入れる人だと分かります。</p></details>
+<details><summary>中小企業のAI導入率はどれくらいですか？</summary><p>IPAの調査では従業員100人以下の企業の「導入している」は16.6%、1,001人以上の企業は78.3%です。一方、帝国データバンクの調査では中小企業の「活用している」は32.4%と報告されています。母集団・設問・調査時期が異なるため、この2つの数字を引き算して比較することはできません。</p></details>
+<details><summary>中小企業でもFDE型の支援を頼めますか？</summary><p>はい。むしろIT担当がいない中小企業にこそ効果が大きい形です。当社は福井の飲食グループ本部（12店舗）など、中小企業の規模と予算に合わせてFDE型の支援を提供しています。</p></details>
+<details><summary>FDE型と研修型・コンサル型・受託開発型は何が違いますか？</summary><p>研修型は知識を広げること、コンサル型は方針を決めること、受託開発型は要件通りのシステムを完成させることがゴールです。FDE型だけが、エンジニアが現場に入って一緒に手を動かし、「現場が自分で使いこなせる状態」まで責任範囲に含めます。</p></details>
+</div>
 
-
-<div class="a-note"><strong>私たち自身のFDE：</strong>いま福井の飲食グループ本部（12店舗）に入り、受発注・会計・LINEといった既存の道具を繋ぐAI化に取り組んでいます。会議室の提案書ではなく、担当者の隣で実データを見ながら進める——この記事のFDEは、その実践から書いています。</div>
-<h2>よくある質問</h2><div class="a-faq"><details><summary>FDEと、ふつうのシステム開発会社は何が違いますか？</summary><p>要件定義書を受け取って作るのではなく、エンジニアが現場に入って業務ごと設計する点です。ゴールも「完成品の納品」ではなく「現場が自分で使いこなせる状態」に置きます。</p></details><details><summary>FDEという言葉はどこから来たのですか？</summary><p>米Palantir社が広めた職種名で、Forward Deployed Engineer（前線配置エンジニア）の略です。顧客企業の中に入って働くエンジニアを指し、現在はOpenAIなど米テック各社が同型の支援を強化しています。</p></details><details><summary>中小企業でもFDE型の支援を頼めますか？</summary><p>はい。むしろIT担当がいない中小企業にこそ効果が大きい形です。当社は中小企業の規模と予算に合わせて、オンライン中心・範囲を絞った形から提供しています。</p></details></div>
+<h2>まとめ</h2>
+<p>FDEとは、エンジニアが顧客企業の現場に入り込み、その場で業務にAIを組み込んでいく支援モデルです。Palantir発の職種名がOpenAIの新サービスにも広がっているのは、AIツールを配るだけでは現場に定着しないという共通認識があるからだと考えられます。IPAのデータが示すのは、企業に本当に足りないのは論文を書けるAI研究者（不足39.1%）ではなく、<strong>現場の知見と基礎的AI知識を持ち、自社へのAI導入を推進できる従業員（不足69.6%）</strong>だという事実です。この3年で不足感は84.4%から69.6%まで下がってきましたが、改善のペースは鈍っており、いまも7割近くの企業が不足を感じています。そして「中小企業のAI導入」という同じテーマでも、IPA（100人以下16.6%）と帝国データバンク（中小企業32.4%）では数字が倍近く違います——母集団も設問も違う以上、この2つは引き算するのではなく、自社がどちらの前提に近いかを確認した上で読む必要があります。足りないのは高性能なAIそのものではなく、それを自社の現場に当てはめる人です。</p>
 
 <div class="a-cta">
-  <p style="font-family:var(--serif);font-size:1.02rem;font-weight:700;color:var(--text)">AI導入の現在地の整理から、現場での実装・定着まで。</p>
-  <p>エンジニアが御社の現場に入るFDE型伴走支援を提供しています。相談は無料です。</p>
+  <p style="font-family:var(--serif);font-size:1.02rem;font-weight:700;color:var(--text)">「現場でAIを入れられる人」を、外から連れてくるという選択肢。</p>
+  <p>エンジニアが御社の現場に入るFDE型伴走支援を提供しています。8問の無料AI診断で現在地もわかります。</p>
   <a href="/entry.html" class="btn btn-primary">無料で相談する</a>
   <p style="margin-top:14px;font-size:.78rem"><a href="/fde/" style="color:var(--accent);border-bottom:1px solid var(--accent)">FDE型AI導入支援のサービス詳細・無料AI診断はこちら →</a></p>
 </div>
+
+<div class="a-src">参考（一次情報）：<br>
+・情報処理推進機構（IPA）「<a href="https://www.ipa.go.jp/digital/chousa/dx-trend/dx-trend-2026.html" target="_blank" rel="noopener">DX動向2026</a>」データ集（2026年7月公表・調査期間2026年4月17日〜6月12日・有効回答1,799社）<br>
+・情報処理推進機構（IPA）「<a href="https://www.ipa.go.jp/pressrelease/2026/press20260716.html" target="_blank" rel="noopener">国内企業のDX動向・AI活用動向のポイントを公表</a>」（2026年7月16日）<br>
+・帝国データバンク「<a href="https://www.tdb.co.jp/report/economic/20260514-genai/" target="_blank" rel="noopener">生成AIに関する企業の動向調査</a>」（2026年3月17〜31日実施・有効回答1万312社・回答率44.2%）<br>
+・OpenAI「<a href="https://openai.com/index/introducing-openai-presence/" target="_blank" rel="noopener">Introducing OpenAI Presence</a>」（2026年7月22日）</div>
 
   <a href="/blog/" class="a-back">← ブログ一覧に戻る</a>
 </article>
@@ -141,8 +247,7 @@
       <p>エンジニアが現場に入り、AIが業務で使われるまで伴走する会社です。</p>
     </div>
     <div class="footer-links">
-      <a href="/#fde">FDEとは</a>
-      <a href="/#service">サービス内容</a>
+      <a href="/fde/">FDE型AI導入支援</a>
       <a href="/blog/">ブログ</a>
       <a href="/company.html">会社概要</a>
       <a href="/entry.html">お問い合わせ</a>

diff --git a/blog/20260805-sakana-namazu.html b/blog/20260805-sakana-namazu.html
@@ -10,9 +10,9 @@
   gtag('js', new Date());
   gtag('config', 'G-L96HMXRK1D');
 </script>
-<title>Sakana AIが日本語特化LLM APIを提供開始——101人以下の企業のAI導入は16.6%、壁は日本語ではない | NGraphブログ</title>
-<meta name="description" content="Sakana AIが2026年8月3日、日本語特化LLM API「Sakana Namazu」を提供開始。中立性ベンチが34.10%から56.30%に向上した一方、IPA調査では従業員101人以下の企業のAI導入率は16.6%にとどまります。モデルの日本語が上手くなっても導入率が動かない理由を解説します。">
-<meta property="og:title" content="Sakana AIが日本語特化LLM APIを提供開始——101人以下の企業のAI導入は16.6%、壁は日本語ではない | NGraphブログ">
+<title>Sakana AIが日本語特化LLM APIを提供開始——100人以下の企業のAI導入は16.6%、壁は日本語ではない | NGraphブログ</title>
+<meta name="description" content="Sakana AIが2026年8月3日、日本語特化LLM API「Sakana Namazu」を提供開始。中立性ベンチが34.10%から56.30%に向上した一方、IPA調査では従業員100人以下の企業のAI導入率は16.6%にとどまります。モデルの日本語が上手くなっても導入率が動かない理由を解説します。">
+<meta property="og:title" content="Sakana AIが日本語特化LLM APIを提供開始——100人以下の企業のAI導入は16.6%、壁は日本語ではない | NGraphブログ">
 <meta property="og:description" content="日本語特化LLM APIが登場しても中小企業の導入率は16.6%。壁は日本語の性能ではなく「どの業務に当てるか」を決める人がいないことだという話を解説します。">
 <meta property="og:type" content="article">
 <meta property="og:url" content="https://ngraph.jp/blog/20260805-sakana-namazu.html">
@@ -33,11 +33,11 @@
 {
   "@context": "https://schema.org",
   "@type": "Article",
-  "headline": "Sakana AIが日本語特化LLM APIを提供開始——101人以下の企業のAI導入は16.6%、壁は日本語ではない",
+  "headline": "Sakana AIが日本語特化LLM APIを提供開始——100人以下の企業のAI導入は16.6%、壁は日本語ではない",
   "image": "https://ngraph.jp/assets/blog/20260805-sakana-namazu.jpg",
-  "description": "Sakana AIが2026年8月3日、日本語特化LLM API「Sakana Namazu」を提供開始。中立性ベンチが34.10%から56.30%に向上した一方、IPA調査では従業員101人以下の企業のAI導入率は16.6%にとどまります。モデルの日本語が上手くなっても導入率が動かない理由を解説します。",
+  "description": "Sakana AIが2026年8月3日、日本語特化LLM API「Sakana Namazu」を提供開始。中立性ベンチが34.10%から56.30%に向上した一方、IPA調査では従業員100人以下の企業のAI導入率は16.6%にとどまります。モデルの日本語が上手くなっても導入率が動かない理由を解説します。",
   "datePublished": "2026-08-05",
-  "dateModified": "2026-08-05",
+  "dateModified": "2026-08-06",
   "inLanguage": "ja",
   "mainEntityOfPage": "https://ngraph.jp/blog/20260805-sakana-namazu.html",
   "author": { "@type": "Person", "name": "髙橋 真吾", "jobTitle": "代表取締役", "url": "https://ngraph.jp/company#team", "worksFor": { "@type": "Organization", "name": "株式会社NGraph", "url": "https://ngraph.jp/" } },
@@ -61,7 +61,7 @@
 
 <article class="article-wrap">
   <div class="a-label">Morning News</div>
-  <h1>Sakana AIが日本語特化LLM APIを提供開始——101人以下の企業のAI導入は16.6%、壁は日本語ではない</h1>
+  <h1>Sakana AIが日本語特化LLM APIを提供開始——100人以下の企業のAI導入は16.6%、壁は日本語ではない</h1>
   <span class="a-date">2026.08.05 朝 ｜ 株式会社NGraph</span>
   <img class="a-eyecatch" src="/assets/blog/20260805-sakana-namazu.jpg" alt="">
 
@@ -81,7 +81,7 @@
 <svg viewBox="0 0 1200 620" width="100%" style="min-width:640px" role="img" aria-label="AI導入の効果は、時間に集中している"><text x="600.0" y="44" font-family="'Zen Kaku Gothic New',sans-serif" font-size="19" fill="#5c544a" font-weight="500" text-anchor="middle">AIを導入した企業が挙げた具体的な効果（複数回答）</text><text x="412" y="101" font-family="'Zen Kaku Gothic New',sans-serif" font-size="21" fill="#2b2620" font-weight="700" text-anchor="end">業務処理時間の短縮</text><rect x="430" y="76" width="560" height="34" rx="2" fill="#a63a24"/><text x="1002" y="102" font-family="'Zen Kaku Gothic New',sans-serif" font-size="24" fill="#a63a24" font-weight="900" text-anchor="start">91.6%</text><text x="412" y="153" font-family="'Zen Kaku Gothic New',sans-serif" font-size="21" fill="#2b2620" font-weight="700" text-anchor="end">作業精度の向上</text><rect x="430" y="128" width="298" height="34" rx="2" fill="#cfc5b4"/><text x="740" y="154" font-family="'Zen Kaku Gothic New',sans-serif" font-size="24" fill="#8a8172" font-weight="900" text-anchor="start">48.9%</text><text x="412" y="205" font-family="'Zen Kaku Gothic New',sans-serif" font-size="21" fill="#2b2620" font-weight="700" text-anchor="end">残業時間の削減</text><rect x="430" y="180" width="178" height="34" rx="2" fill="#cfc5b4"/><text x="620" y="206" font-family="'Zen Kaku Gothic New',sans-serif" font-size="24" fill="#8a8172" font-weight="900" text-anchor="start">29.2%</text><text x="412" y="257" font-family="'Zen Kaku Gothic New',sans-serif" font-size="21" fill="#2b2620" font-weight="700" text-anchor="end">顧客満足度の向上</text><rect x="430" y="232" width="27" height="34" rx="2" fill="#cfc5b4"/><text x="469" y="258" font-family="'Zen Kaku Gothic New',sans-serif" font-size="24" fill="#8a8172" font-weight="900" text-anchor="start">4.5%</text><text x="412" y="309" font-family="'Zen Kaku Gothic New',sans-serif" font-size="21" fill="#2b2620" font-weight="700" text-anchor="end">売上・利益率の向上</text><rect x="430" y="284" width="23" height="34" rx="2" fill="#cfc5b4"/><text x="465" y="310" font-family="'Zen Kaku Gothic New',sans-serif" font-size="24" fill="#8a8172" font-weight="900" text-anchor="start">3.9%</text><text x="412" y="361" font-family="'Zen Kaku Gothic New',sans-serif" font-size="21" fill="#2b2620" font-weight="700" text-anchor="end">対象顧客の拡大</text><rect x="430" y="336" width="16" height="34" rx="2" fill="#cfc5b4"/><text x="458" y="362" font-family="'Zen Kaku Gothic New',sans-serif" font-size="24" fill="#8a8172" font-weight="900" text-anchor="start">2.7%</text><text x="600.0" y="562" font-family="'Zen Old Mincho',serif" font-size="24" fill="#2b2620" font-weight="900" text-anchor="middle">時間は91.6%浮いた。売上が動いたと答えたのは3.9%</text><text x="8" y="604" font-family="'Zen Kaku Gothic New',sans-serif" font-size="13" fill="#8a8172" font-weight="400" text-anchor="start">出所：IPA「DX動向2026」調査結果のポイント（2026年7月16日公表・有効回答1,799社）</text></svg>
 </div>
 
-<p><strong>第三に、それでも中小企業にはまだ入っていません。</strong>IPA「DX動向2026」によると、従業員1,001人以上の企業は8割近くがAIを導入している一方、101人以下は<strong>16.6%</strong>にとどまります。導入した企業の効果も、上のグラフの通り「業務処理時間が短縮／削減した」91.6%に対し「売上や利益率が向上した」は3.9%。用途のトップは「文章・文書の要約・翻訳・添削」82.5%です。モデルの日本語は毎月上手くなっているのに、導入率は動いていません。壁は日本語の性能ではなく、<strong>「どの業務に当てるか」を決める人が社内にいないこと</strong>です。乗り換えが設定1行になった今、止まっている理由は技術から意思決定に移りました。</p>
+<p><strong>第三に、それでも中小企業にはまだ入っていません。</strong>IPA「DX動向2026」によると、従業員1,001人以上の企業は8割近くがAIを導入している一方、100人以下は<strong>16.6%</strong>にとどまります。導入した企業の効果も、上のグラフの通り「業務処理時間が短縮／削減した」91.6%に対し「売上や利益率が向上した」は3.9%。用途のトップは「文章・文書の要約・翻訳・添削」82.5%です。モデルの日本語は毎月上手くなっているのに、導入率は動いていません。壁は日本語の性能ではなく、<strong>「どの業務に当てるか」を決める人が社内にいないこと</strong>です。乗り換えが設定1行になった今、止まっている理由は技術から意思決定に移りました。</p>
 
 <h2>中小企業は何をすべきか</h2>
 <ul>

diff --git a/blog/index.html b/blog/index.html
@@ -84,8 +84,8 @@
       <div class="card blog-card">
         <span class="b-date">2026.08.05 朝</span>
         <a href="/blog/20260805-sakana-namazu.html" class="b-thumb"><img src="/assets/blog/20260805-sakana-namazu.jpg" alt="" loading="lazy"></a>
-        <h3><a href="/blog/20260805-sakana-namazu.html">Sakana AIが日本語特化LLM APIを提供開始——101人以下の企業のAI導入は16.6%、壁は日本語ではない</a></h3>
-        <p>Sakana AIが2026年8月3日、日本語特化LLM API「Sakana Namazu」を提供開始。中立性ベンチが34.10%から56.30%に向上した一方、IPA調査では従業員101人以下の企業のAI導入率は16.6%にとどまります。モデルの日本語が上手くなっても導入率が動かない理由を解説します。</p>
+        <h3><a href="/blog/20260805-sakana-namazu.html">Sakana AIが日本語特化LLM APIを提供開始——100人以下の企業のAI導入は16.6%、壁は日本語ではない</a></h3>
+        <p>Sakana AIが2026年8月3日、日本語特化LLM API「Sakana Namazu」を提供開始。中立性ベンチが34.10%から56.30%に向上した一方、IPA調査では従業員100人以下の企業のAI導入率は16.6%にとどまります。モデルの日本語が上手くなっても導入率が動かない理由を解説します。</p>
         <a href="/blog/20260805-sakana-namazu.html" class="b-more">読む →</a>
       </div>
       <div class="card blog-card">
@@ -273,8 +273,8 @@
       <div class="card blog-card">
         <span class="b-date">2026.07.14</span>
         <a href="/blog/what-is-fde.html" class="b-thumb"><img src="/assets/blog/what-is-fde.jpg" alt="" loading="lazy"></a>
-        <h3><a href="/blog/what-is-fde.html">FDE（フォワード・デプロイド・エンジニア）とは？ 米テック大手が「常駐エンジニア」に投資する理由</a></h3>
-        <p class="b-excerpt">OpenAI・Microsoft・AWSがこぞって投資する「現場常駐型エンジニア」。ツールを売って終わりにしない支援モデルの中身を解説。</p>
+        <h3><a href="/blog/what-is-fde.html">FDE（フォワード・デプロイド・エンジニア）とは？ 企業が本当に足りないのは「現場でAIを入れられる人」——不足69.6%</a></h3>
+        <p class="b-excerpt">IPA「DX動向2026」では「現場でAI導入を推進できる従業員」の不足が69.6%、一方でAI研究者は56.7%が「自社には必要ない」。足りない人材の正体を解説。</p>
         <a href="/blog/what-is-fde.html" class="b-more">読む →</a>
       </div>
       <div class="card blog-card">
